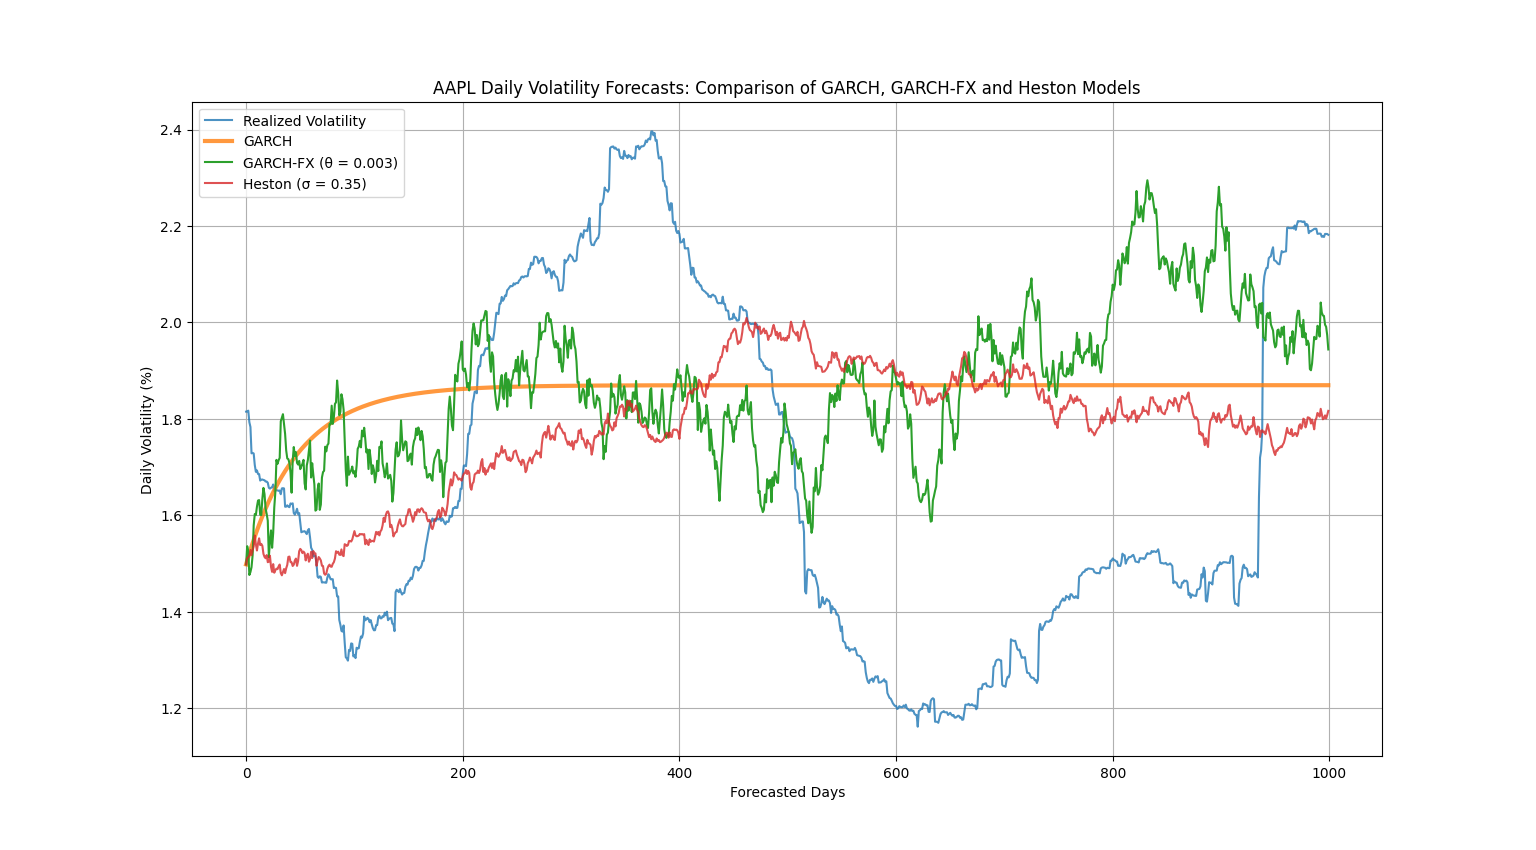
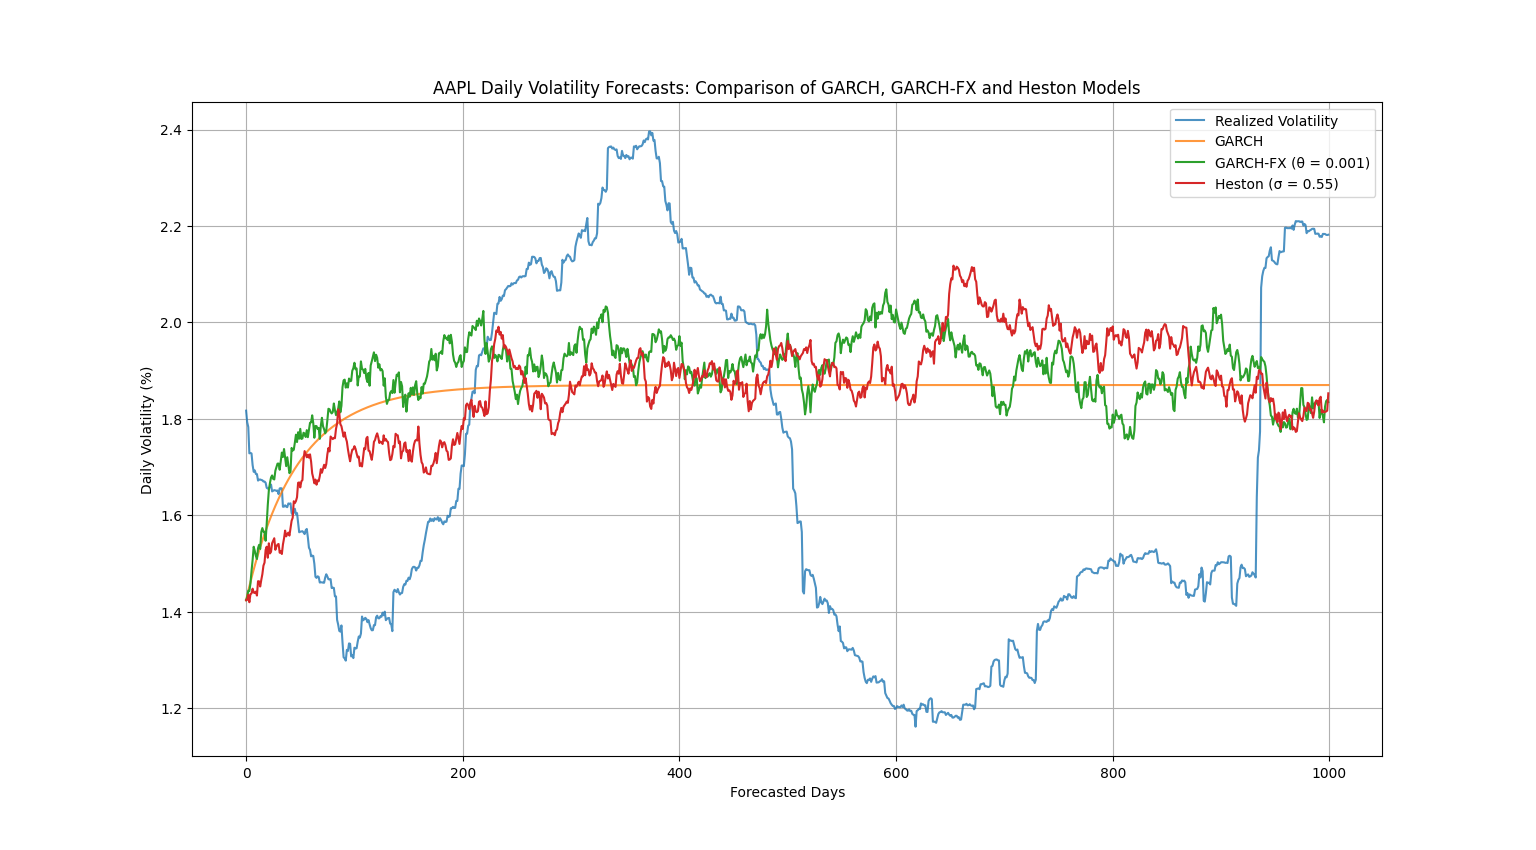
Updating benchmarks and changing markov chain

diff --git a/test.py b/test.py
@@ -2,21 +2,23 @@ import numpy as np
 import yfinance as yf
 import matplotlib.pyplot as plt
 from tabulate import tabulate
+import time
 
-from libs.utils import garchforecast, getGARCHdata, realVol, hestonForecast
+from libs.utils import garchforecast, getGARCHdata, realVol, hestonforecast
 from libs.garchfx import fxforecast
 
 # Constants
 FORECASTS = 1000
 TICKER = input("Enter Ticker: ")
 regime = True if input("Enable Regime Shifting (Y/N): ").lower() == "y" else False
+sigma = float(input("Enter Vol of Vol. (Heston): "))
 
 # Defining variables of this GARCH implementation
 # SCALE controls the volatility wiggliness, proportional to volatility of volatility
 # SCALE → 0 => Volatility models closer to GARCH volatility, i.e. the long term variance 
 # SCALE → 1 (or infinity) => Heavy volatility spikes are observed
 # SCALE = 1e-3 to 5e-3 seems ideal (1e-2 for rough)
-THETA = 1e-3
+THETA = 5e-3
 
 # DELTA is the regime shift variable. 
 # D = 1 normal market mean. 
@@ -37,9 +39,10 @@ VOLATILITY, PARAMS = getGARCHdata(logReturns)
 
 # Heston forecast
 # Computing GARCH parameters and passing into Heston for fair comparison
-speed = 1 - PARAMS[0] - PARAMS[1]
-variance = PARAMS[2]/speed
-hestonforecast = hestonForecast(speed, variance, VOLATILITY**2)
+GARCH_PERSISTENCE = PARAMS[0]+PARAMS[1]
+speed = -np.log(GARCH_PERSISTENCE) * 252
+variance = PARAMS[2]/(1-GARCH_PERSISTENCE)
+hestonForecast = hestonforecast(speed, variance, VOLATILITY**2, sigma)
 
 # manual GARCH to forecast in percentages
 GARCHforecast = garchforecast(VOLATILITY, nahead=FORECASTS, params=PARAMS)
@@ -50,12 +53,12 @@ FXforecast = fxforecast(VOLATILITY, nahead=FORECASTS, params=PARAMS, theta=THETA
 # Root Mean Squared Error
 rmseFX = np.sqrt(np.mean((FXforecast - realizedVolatility) ** 2))
 rmseGARCH = np.sqrt(np.mean((GARCHforecast - realizedVolatility) ** 2))
-rmseHESTON = np.sqrt(np.mean((hestonforecast - realizedVolatility) ** 2))
+rmseHESTON = np.sqrt(np.mean((hestonForecast - realizedVolatility) ** 2))
 
 # Mean absolute error
 maeFX = np.mean(np.abs(FXforecast - realizedVolatility))
 maeGARCH = np.mean(np.abs(GARCHforecast - realizedVolatility))
-maeHESTON = np.mean(np.abs(hestonforecast - realizedVolatility))
+maeHESTON = np.mean(np.abs(hestonForecast - realizedVolatility))
 
 # Printing parameters
 print("\nGARCH-FX Parameters:")
@@ -70,8 +73,8 @@ print(tabulate(
 # Summary table
 summary = [
     ["GARCH", f"{rmseGARCH:.5f}", f"{maeGARCH:.5f}", f"{np.mean(GARCHforecast):.3f}%"],
-    ["GARCH-FX (RA)", f"{rmseFX:.5f}", f"{maeFX:.5f}", f"{np.mean(FXforecast):.3f}%"],
-    ["Heston", f"{rmseHESTON:.5f}", f"{maeHESTON:.5f}", f"{np.mean(hestonforecast):.3f}%"],
+    ["Heston", f"{rmseHESTON:.5f}", f"{maeHESTON:.5f}", f"{np.mean(hestonForecast):.3f}%"],
+    ["GARCH-FX", f"{rmseFX:.5f}", f"{maeFX:.5f}", f"{np.mean(FXforecast):.3f}%"],
     ["Realized Vol.", f"-", f"-", f"{np.mean(realizedVolatility):.3f}%"]
 ]
 
@@ -80,9 +83,9 @@ print("\n" + tabulate(summary, headers=["Model", "RMSE", "MAE", "Mean Vol."], ta
 
 # Plotting Values
 plt.plot(realizedVolatility, label="Realized Volatility", alpha=0.8)
-plt.plot(GARCHforecast, label="GARCH", linewidth=3, alpha=0.8)
-plt.plot(FXforecast, label=f"GARCH-FX - RA (θ = {THETA})")
-plt.plot(hestonforecast, label="Heston (σ = 0.6)", alpha=0.8)
+plt.plot(GARCHforecast, label="GARCH", alpha=0.8)
+plt.plot(FXforecast, label=f"GARCH-FX (θ = {THETA})")
+plt.plot(hestonForecast, label=f"Heston (σ = {sigma})")
 plt.title(f"{TICKER} Daily Volatility Forecasts: Comparison of GARCH, GARCH-FX and Heston Models")
 plt.xlabel("Forecasted Days")
 plt.ylabel("Daily Volatility (%)")

diff --git a/libs/garchfx.py b/libs/garchfx.py
@@ -6,7 +6,7 @@ import numpy as np
 import sys
 
 # Global seed for comparison
-GLOBAL_SEED = 100
+GLOBAL_SEED = None
 
 # Regime switching function
 def regimeswitcher(delta, regimeStates, regimes):
@@ -16,11 +16,18 @@ def regimeswitcher(delta, regimeStates, regimes):
         
         # 3 stage regime probabilities
         # Default
-        regimeStates = np.array([[0.97, 0.029, 0.001], [0.015, 0.95, 0.035], [0.00, 0.04, 0.96]])
+        regimeStates = np.array([
+            [0.85, 0.12, 0.03, 0.00, 0.00],  
+            [0.05, 0.75, 0.18, 0.02, 0.00],  
+            [0.01, 0.10, 0.70, 0.17, 0.02],  
+            [0.00, 0.02, 0.15, 0.70, 0.13],  
+            [0.00, 0.00, 0.03, 0.10, 0.87],  
+        ])
     
     if regimes == None:
+        
         # Regime multiplier values
-        regimes = [0.5, 1.0, 1.5]
+        regimes = [0.5, 0.9, 1.0, 1.1, 1.5]
     
     if len(regimeStates) != len(regimes):
         print("Invalid regime input")
@@ -48,10 +55,11 @@ def fxforecast(volatility, nahead, params, theta, reg=False, regimeStates=None, 
     forecasts.append(volatility)
     previousVariance = volatility ** 2
     ALPHA, BETA, OMEGA = params[0], params[1], params[2]
+    PERSISTANCE = ALPHA + BETA
     np.random.seed(GLOBAL_SEED)
 
     for i in range(nahead-1):
-        
+
         # Modelling shape to fit variance as the mode
         SHAPE = (previousVariance / theta) + 1
 
@@ -64,7 +72,7 @@ def fxforecast(volatility, nahead, params, theta, reg=False, regimeStates=None, 
         stochasticVariance = np.random.gamma(shape=SHAPE, scale=theta, size=1)[0]
 
         # GARCH-FX equation
-        forecastedVariance = (OMEGA * delta) + (ALPHA + BETA) * stochasticVariance
+        forecastedVariance = (OMEGA * delta) + (PERSISTANCE) * stochasticVariance
         previousVariance = forecastedVariance
 
         # Appending GARCH-FX volatility

diff --git a/libs/utils.py b/libs/utils.py
@@ -51,10 +51,9 @@ def realVol(returns, steps):
     return np.delete(volarr, 0)
 
 # Heston model function to forecast volatility
-def hestonForecast(kappa, theta, v0):
+def hestonforecast(kappa, theta, v0, sigma):
 
-    # Some predefined constants
-    sigma = 0.6
+    # Time
     T = 2.75
     N = 1000
 

diff --git a/README.md b/README.md
@@ -169,62 +169,69 @@ This command would forecast `MSFT`'s movement, training on 1000 days of data and
 
 GARCH-FX was benchmarked against Realized Volatility, vanilla GARCH and Heston.
 
-### 1. Amazon.com Inc
+### 1. NVIDIA Corp
 
 ```shell
-Enter Ticker: AMZN
-Enable Regime Shifting (Y/N): Y
+Enter Ticker: NVDA
+Enable Regime Shifting (Y/N): N
+Enter Vol of Vol. (Heston): 1
 
 GARCH-FX Parameters:
-Omega  0.0418616
-Alpha  0.0248063
-Beta   0.96785
+Omega  0.229856
+Alpha  0.049683
+Beta   0.931876
 
 Model          RMSE     MAE      Mean Vol.
-GARCH-FX       0.70919  0.63282  2.329%
-Heston         0.72417  0.54988  1.862%
-Realized Vol.  -        -        2.177%
+GARCH          0.47978  0.38978  3.477%
+Heston         0.52634  0.43119  3.461%
+GARCH-FX       0.51101  0.42174  3.544%
+Realized Vol.  -        -        3.320%
 ```
 
-![BRKB](assets/amzn.png)
+![NVDA](assets/NVDA.png)
 
 ### 2. Apple Inc
 
 ```shell
 Enter Ticker: AAPL
-Enable Regime Shifting (Y/N): Y
+Enable Regime Shifting (Y/N): N
+Enter Vol of Vol. (Heston): 0.55
 
 GARCH-FX Parameters:
-Omega  0.0653522
-Alpha  0.0638809
-Beta   0.917429
+Omega  0.0665797
+Alpha  0.0651289
+Beta   0.915837
 
 Model          RMSE     MAE      Mean Vol.
-GARCH-FX       0.43895  0.38509  1.867%
-Heston         0.40209  0.34980  1.778%
-Realized Vol.  -        -        1.674%
+GARCH          0.40359  0.36471  1.848%
+Heston         0.44048  0.38695  1.863%
+GARCH-FX       0.43658  0.38485  1.894%
+Realized Vol.  -        -        1.675%
 ```
 
-![PG](assets/aapl.png)
+![AAPL](assets/AAPL.png)
 
-### 3. Meta Platforms Inc
+### 3. 
+Procter & Gamble Co
 
 ```shell
-Enter Ticker: META
-Enable Regime Shifting (Y/N): Y
+Enter Ticker: PG
+Enable Regime Shifting (Y/N): N
+Enter Vol of Vol. (Heston): 0.25
 
 GARCH-FX Parameters:
-Omega  0.121083
-Alpha  0.0208854
-Beta   0.960266
+Omega  0.0203721
+Alpha  0.0334487
+Beta   0.951174
 
 Model          RMSE     MAE      Mean Vol.
-GARCH-FX       0.78979  0.66586  2.580%
-Heston         0.87567  0.77790  2.657%
-Realized Vol.  -        -        2.736%
+GARCH          0.21603  0.19726  1.145%
+Heston         0.23264  0.20866  1.185%
+GARCH-FX       0.21310  0.19427  1.140%
+Realized Vol.  -        -        1.062%
 ```
 
-![KO](assets/meta.png)
+![PG](assets/PG.png)
 
 ---
 
